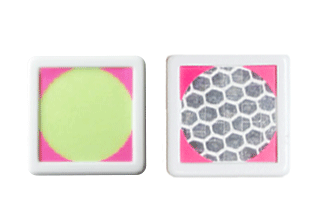
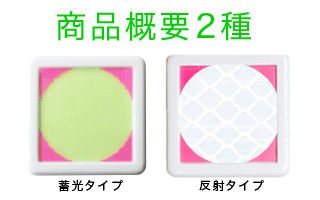
明るい画像差し替え修正

diff --git a/index.html b/index.html
@@ -75,7 +75,6 @@
 
     <div class="hero">
       <img src="./asset/images/markin-top-imgtext1920900.jpg" alt="高輝度蓄光・反射テープマーキン" />
-      <p class="storong-text">商品概要 2種</p>
       <div class="storong">夜間、暗がりでの<br>人、ペット、物の<br>目印、位置表示に</div>
     </div>
 <!--災害・安全対策グッズマーキン2種類について-->
@@ -97,7 +96,7 @@
                 <p class="about-description">自然光や照明の灯りで光を蓄え<br>暗くなると光る</p>
             </div>
             <div class="about-list">
-              <img class="about-image" src="./asset/images/site-detail-markin2.png" alt="高輝度蓄光・反射テープマーキン"/>
+              <img class="about-image" src="./asset/images/site-detail-markin4.png" alt="高輝度蓄光・反射テープマーキン"/>
               <ul class="about-secondlist">
 
                 <li><i class="fas fa-check"></i><span class="space">夜間、停電時の目印・位置表示に<br><span class="space"><span class="space"><span class="space">(人・ペット・バッグ・小物・自転車など）</span> </li>
@@ -141,8 +140,8 @@
             </div>
           </figcaption>
             <p class="circle-left">160個〜<br>承ります</p>
-            <img class="aboutprint-image" src="./asset/images/site-markin-print-left1.png" alt="オリジナル名入れ">
-            <img class="aboutprint-image" src="./asset/images/site-markin-print-left2.png" alt="オリジナル名入れ">
+            <img class="aboutprint-image" src="./asset/images/site-markin-print-left3.png" alt="オリジナル名入れ">
+            <img class="aboutprint-image" src="./asset/images/site-markin-print-left4.png" alt="オリジナル名入れ">
         </figure>
         <figure class="about-right">
           <figcaption class="about-caption">

diff --git a/asset/css/style.css b/asset/css/style.css
@@ -221,8 +221,8 @@ border-bottom: 5px solid #FFFF00;
 }
 .storong {
   position: absolute;
-  top: 73%;
-  left: 54%;
+  top: 60%;
+  left: 49%;
   background-image: url(../../asset/images/markinsite_tv_heroimg.png);
   background-size: contain;
   background-repeat: no-repeat;
@@ -236,7 +236,6 @@ border-bottom: 5px solid #FFFF00;
   border: #00CC00 solid 3px;
   padding: 20px 20px;
   text-align: left;
-  opacity: 90%;
 }
 .storong-text {
   color: #00CC00;
